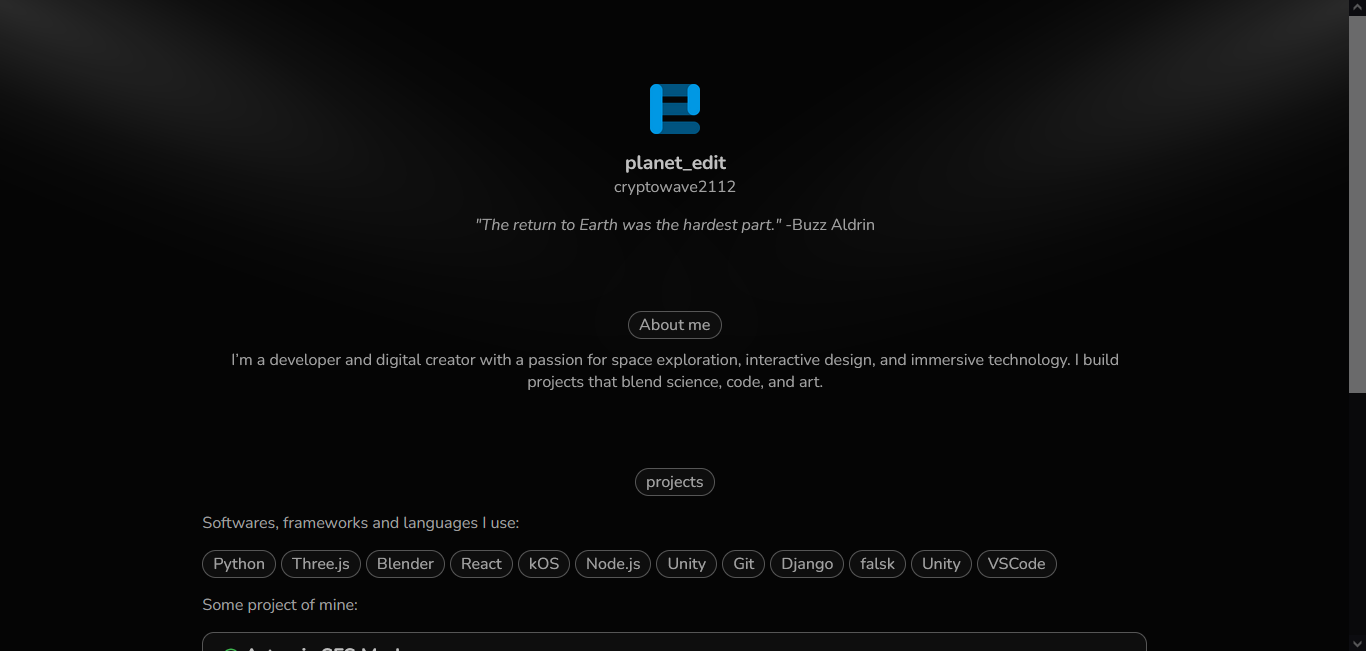
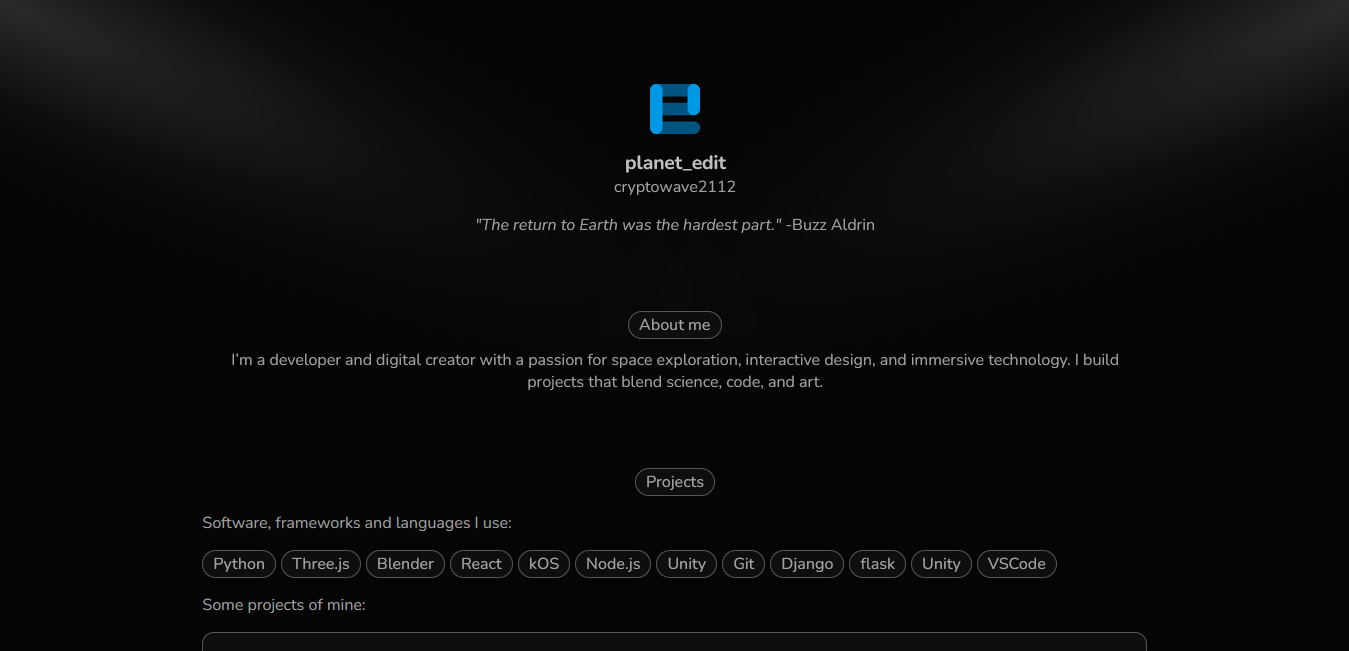
update

diff --git a/index.html b/index.html
@@ -21,6 +21,13 @@
     <style>
         * {
             z-index: 10;
+            cursor: default;
+        }
+        a {
+            cursor: pointer;
+        }
+        a * {
+            cursor: pointer;
         }
         body {
             position: absolute;
@@ -135,13 +142,15 @@
             border-radius: 12px;
             color: #a0a0a0;
             font-weight: 500;
-            padding: 10px 20px 10px 20px;
+            padding: 20px 40px 20px 40px;
             border-width: 1px;
             border-style: solid;
             border-color: rgb(86, 86, 86);
         }
         .pcard .pctitle {
             color: #c0c0c0;
+            border-bottom:solid 1px rgb(86, 86, 86);
+            margin: 0 0 10px;
         }
         .octicon-wip {
             color:#3fb950;
@@ -150,12 +159,21 @@
             color:#a371f7;
         }
         .octicon-unfinished {
-            color:#a371f7;
+            color:#848d97;
         }
         .octicon {
             width: 16px;
             height: 16px;
-            transform: translateY(15%);
+            transform: translateY(8%);
+        }
+        .time {
+            font-size: smaller;
+            font-weight: 300;
+            text-decoration: underline;
+            margin: 10px 0 0;
+        }
+        .right_text {
+            text-align: right;
         }
     </style>
 </head>
@@ -209,7 +227,7 @@
             Some projects of mine:
         </p>
 
-        <ul class="list-card marg">
+        <ul class="list-card marg" id="projects">
             <a href="#" style="display: block; text-decoration: none; color: inherit;">
             <li class="pcard">
                 <div class="pctitle t1">
@@ -221,8 +239,8 @@
                 <div class="pcdesc t2">A simple mod for the video game named Spaceflight Simulator. It adds the SLS and the Falcon Heavy to recreate the Artemis program</div>
             </li>
             </a>
-            <a href="https://github.com/Cryptowave2-0/hebergement_system" style="display: block; text-decoration: none; color: inherit;">
-            <li class="pcard">
+            <a href="https://github.com/Cryptowave2-0/hebergement_system" style="display: block; text-decoration: none; color: inherit; cursor: pointer;">
+            <li class="pcard" id="896260033">
                 <div class="pctitle t1">
                     <svg class="octicon octicon-wip" fill="currentColor">
                         <path d="M8 9.5a1.5 1.5 0 1 0 0-3 1.5 1.5 0 0 0 0 3Z"></path>
@@ -233,7 +251,7 @@
             </li>
             </a>
             <a href="https://github.com/Cryptowave2-0/titan_mod_part_for_sfs" style="display: block; text-decoration: none; color: inherit;">
-            <li class="pcard">
+            <li class="pcard" id="733828356">
                 <div class="pctitle t1">
                     <svg class="octicon octicon-done" fill="currentColor">
                         <path d="M11.28 6.78a.75.75 0 0 0-1.06-1.06L7.25 8.69 5.78 7.22a.75.75 0 0 0-1.06 1.06l2 2a.75.75 0 0 0 1.06 0l3.5-3.5Z"></path>
@@ -244,7 +262,7 @@
             </li>
             </a>
             <a href="https://github.com/Cryptowave2-0/gemini_mod_part_for_sfs" style="display: block; text-decoration: none; color: inherit;">
-                <li class="pcard">
+                <li class="pcard" id="727898085">
                     <div class="pctitle t1">
                         <svg class="octicon octicon-done" fill="currentColor">
                             <path d="M11.28 6.78a.75.75 0 0 0-1.06-1.06L7.25 8.69 5.78 7.22a.75.75 0 0 0-1.06 1.06l2 2a.75.75 0 0 0 1.06 0l3.5-3.5Z"></path>
@@ -254,7 +272,35 @@
                     <div class="pcdesc t2">A mod that implements the Gemini spacecraft in the Spaceflight Simulator video game.</div>
                 </li>
             </a>
+            <a href="https://github.com/Cryptowave2-0/SFS-PLANET-EDITOR" style="display: block; text-decoration: none; color: inherit;">
+                <li class="pcard" id="651924552">
+                    <div class="pctitle t1">
+                        <svg class="octicon octicon-unfinished" fill="currentColor">
+                            <path d="M8 0a8 8 0 1 1 0 16A8 8 0 0 1 8 0ZM1.5 8a6.5 6.5 0 1 0 13 0 6.5 6.5 0 0 0-13 0Zm9.78-2.22-5.5 5.5a.749.749 0 0 1-1.275-.326.749.749 0 0 1 .215-.734l5.5-5.5a.751.751 0 0 1 1.042.018.751.751 0 0 1 .018 1.042Z"></path>
+                        </svg>
+                    SFS PLANET EDITOR</div>
+                    <div class="pcdesc t2">An application to modify and create your own solar systems for the 2d video game Sapceflight Simulator</div>
+                </li>
+            </a>
         </ul>
+    </section>
+    <section>
+        <div class="tag center marg">Contacts</div>
+        <p class="t2">
+            My social networks and contacts:
+        </p>
+        
+        <div class="tags-container">
+            <a href="https://discord.gg/7d5jfTJSfu" target="_blank" class="tag" style="text-decoration: none;">Discord</a>
+            <a href="https://github.com/Cryptowave2-0" target="_blank" class="tag" style="text-decoration: none;">Github</a>
+            <a href="https://www.youtube.com/@planet_edit_the_only_one" target="_blank" class="tag" style="text-decoration: none;">Youtube</a>
+            <a href="https://www.instagram.com/planet_edit_sfs/" target="_blank" class="tag" style="text-decoration: none;">Instagram</a>
+            <span class="tag" onclick="copyToClipboard(this)" data-copy="planeteditoroff@gmail.com" style="cursor: pointer;">Email</span>
+        </div>
+    </section>
+    <section>
+        <div class="tag center marg">Credits</div>
+        <p class="t2 center" id="credits_zone">Made by planet_edit</p>
     </section>
     <script>
         const rightl = document.querySelector('.rightl');
@@ -269,6 +315,159 @@
         lights.forEach((light) => {
                 light.style.width = `${window.innerWidth*1.5}px`;
         })
+
+
+        function timeAgo(isoDate) {
+            const now = new Date();
+            const updated = new Date(isoDate);
+            const diff = Math.floor((now - updated) / 1000); // en secondes
+
+            const minutes = Math.floor(diff / 60);
+            const hours = Math.floor(diff / 3600);
+            const days = Math.floor(diff / 86400);
+            const months = Math.floor(diff / 2592000); // approx 30 jours
+            const years = Math.floor(diff / 31536000);
+
+            if (diff < 60) return `Updated just now`;
+            if (minutes < 60) return `Updated ${minutes} minute${minutes > 1 ? 's' : ''} ago`;
+            if (hours < 24) return `Updated ${hours} hour${hours > 1 ? 's' : ''} ago`;
+            if (days < 30) return `Updated ${days} day${days > 1 ? 's' : ''} ago`;
+            if (months < 12) return `Updated ${months} month${months > 1 ? 's' : ''} ago`;
+            return `Updated ${years} year${years > 1 ? 's' : ''} ago`;
+        }
+        
+
+        const username = "Cryptowave2-0"; // ton pseudo GitHub
+        const cacheKey = `github_repos_${username}`;
+        const cacheTTL = 60 * 60 * 1000; // 1 heure
+
+        const cached = localStorage.getItem(cacheKey);
+        const now = Date.now();
+
+        if (cached) {
+            const { timestamp, data } = JSON.parse(cached);
+            if (now - timestamp < cacheTTL) {
+                console.log("✅ Données chargées depuis le cache.");
+                afficherRepos(data);
+            } else {
+                fetchRepos();
+            }
+        } else {
+            fetchRepos();
+        }
+
+        function fetchRepos() {
+            fetch(`https://api.github.com/users/${username}/repos`)
+                .then(response => response.json())
+                .then(response => {
+                    if (response.status === 403) {
+                        return response.json().then(error => {
+                            if (error.message && error.message.includes("API rate limit exceeded")) {
+                                throw new Error("GitHub API rate limit exceeded. Please wait or use authentication.");
+                            }
+                            throw new Error("Accès interdit : " + error.message);
+                        });
+                    }
+                    if (!response.ok) {
+                        throw new Error(`Erreur API GitHub (${response.status})`);
+                    }
+                    return response.json();
+                })
+                .then(data => {
+                    localStorage.setItem(cacheKey, JSON.stringify({
+                        timestamp: Date.now(),
+                        data: data
+                    }));
+                    afficherRepos(data);
+                })
+                .catch(error => {
+                    console.error("Erreur lors du chargement des dépôts GitHub :", error);
+                });
+        }
+
+        function afficherRepos(repos) {
+            repos.forEach(repo => {
+                const target = document.getElementById(`${repo.id}`);
+                if (!target) {
+                    console.warn(`Aucun élément avec l’ID ${repo.id} trouvé dans le DOM, nom du repo : ${repo.name}`);
+                    return;
+                }
+
+                const div = document.createElement("div");
+                div.innerHTML = `<div class="right_text time">${timeAgo(repo.updated_at)}</div>`;
+                target.appendChild(div);
+            });
+        }
+
+
+        // Dépôt du site lui-même
+        const siteCacheKey = `github_site_repo_${username}`;
+        const siteCache = localStorage.getItem(siteCacheKey);
+
+        if (siteCache) {
+            const { timestamp, data } = JSON.parse(siteCache);
+            if (now - timestamp < cacheTTL) {
+                insertSiteTime(data);
+            } else {
+                fetchSiteRepo();
+            }
+        } else {
+            fetchSiteRepo();
+        }
+
+        function fetchSiteRepo() {
+            fetch(`https://api.github.com/repos/${username}/${username}.github.io`)
+                .then(response => response.json())
+                .then(response => {
+                    if (response.status === 403) {
+                        return response.json().then(error => {
+                            if (error.message && error.message.includes("API rate limit exceeded")) {
+                                throw new Error("GitHub API rate limit exceeded. Please wait or use authentication.");
+                            }
+                            throw new Error("Accès interdit : " + error.message);
+                        });
+                    }
+                    if (!response.ok) {
+                        throw new Error(`Erreur API GitHub (${response.status})`);
+                    }
+                    return response.json();
+                })
+                .then(data => {
+                    localStorage.setItem(siteCacheKey, JSON.stringify({
+                        timestamp: Date.now(),
+                        data: data
+                    }));
+                    insertSiteTime(data);
+                })
+                .catch(error => {
+                    console.error("Erreur lors du chargement du dépôt du site :", error);
+                });
+        }
+
+        function insertSiteTime(repo) {
+            const target = document.getElementById("credits_zone");
+            if (!target) return;
+            const span = document.createElement("span");
+            span.className = "time";
+            span.style.fontSize = "medium";
+            span.textContent = `${timeAgo("2025-07-15T01:13:43Z")}`;
+            target.textContent += " | "
+            target.appendChild(span);
+        }
+        
+
+        function copyToClipboard(element) {
+            const textToCopy = element.dataset.copy;
+            navigator.clipboard.writeText(textToCopy)
+                .then(() => {
+                    const originalText = element.innerText;
+                    element.innerText = "Copied";
+                    setTimeout(() => element.innerText = originalText, 1000);
+                })
+                .catch(err => {
+                    console.error('Erreur de copie :', err);
+                });
+        }
     </script>
 </body>
 </html>
